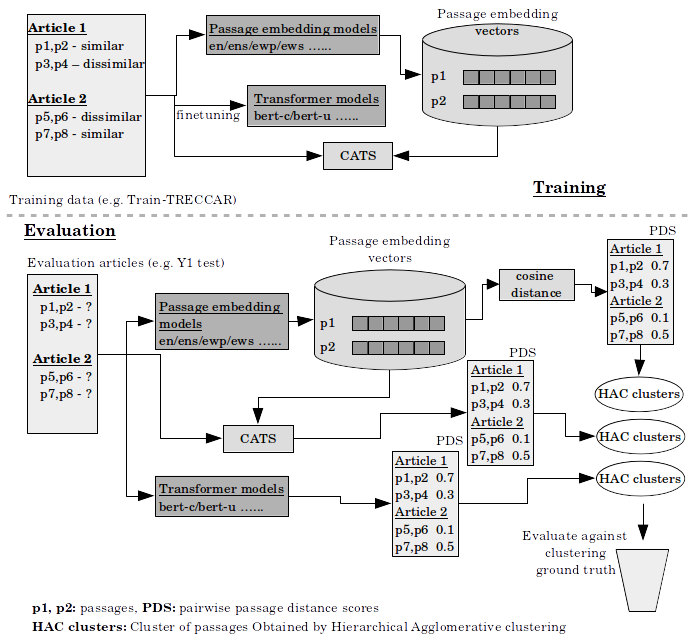
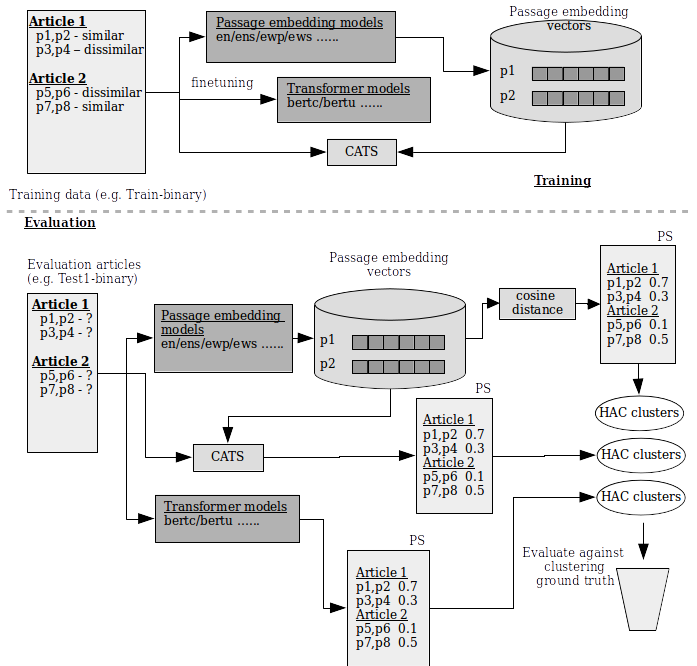
figure caption fix

diff --git a/approach.tex b/approach.tex
@@ -41,8 +41,10 @@ The similarity between a pair of texts is often subject to the context. In conte
 As depicted in Figure \ref{fig:triam}, the general CATS architecture consists of three identical fully connected triamese neural layers ($DL1$), meaning they share the same set of weights. Each of them accepts fixed-length embedding vectors representing the query context and pair of passages respectively ($q,p_1,p_2$). Due to their triamese nature, they project all three embedding vectors to the same embedding subspace. The projected vectors ($q',p_1',p_2'$) and their difference vectors ($(p_1'-p_2'),(p_1'-q'),(p_2'-q')$) are concatenated. The concatenated output vector is transformed through another fully connected neural layer ($DL2$) which emits a similarity score.
 \begin{figure}[h]
   \centering
-  \includegraphics[width=\linewidth]{graphics/triamese.png}
-  \caption{Triamese network used to estimate query dependent pairwise passage similarity score used for subtopic clustering}
+  \includegraphics[width=0.8\linewidth]{graphics/triamese.png}
+  \caption{Triamese network used to estimate query dependent pairwise passage similarity score used for subtopic clustering \\
+  SBERT: Fine-tuned BERT based embeddings (Reimers et al.) \\
+  DL1,2: Dense layers}
   \label{fig:triam}
 \end{figure}
 

diff --git a/evaluation.tex b/evaluation.tex
@@ -9,7 +9,9 @@ The training and evaluation phase of the clustering pipeline is depicted in Figu
 \begin{figure}[h]
   \centering
   \includegraphics[width=\linewidth]{graphics/pipeline2.png}
-  \caption{Training and evaluation phase of clustering pipeline}
+  \caption{Training and evaluation phase of clustering pipeline \\
+  p1, p2: passages, PS: pairwise passage similarity scores \\
+  HAC clusters: Cluster of passages Obtained by Hierarchical Agglomerative clustering}
   \label{fig:pipe}
 \end{figure}
 
@@ -213,7 +215,8 @@ All passage embeddings used for our evaluation are of length 768. Reducing the d
 
 \begin{figure}[h]
   \centering
-  \includegraphics[width=\linewidth]{graphics/emb_vec_dim_red_exp.png}
-  \caption{Effect of dimensionality reduction of passage embedding vectors compared to the original vector}
+  \includegraphics[width=\linewidth]{graphics/emb_vec_dim_red_plot.png}
+  \caption{Effect of dimensionality reduction of passage embedding vectors compared to the original vector \\
+  X axis: Dimension of transformed embedding vector}
   \label{fig:dimred}
 \end{figure}
